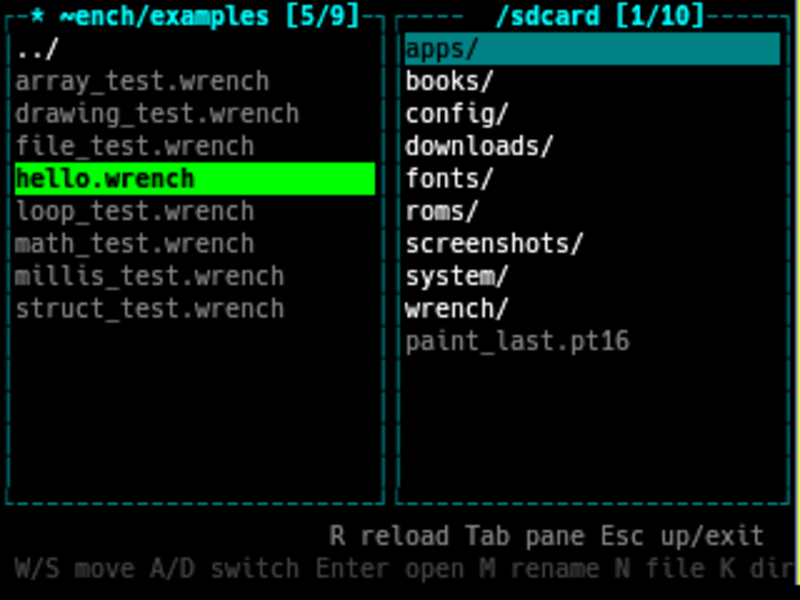
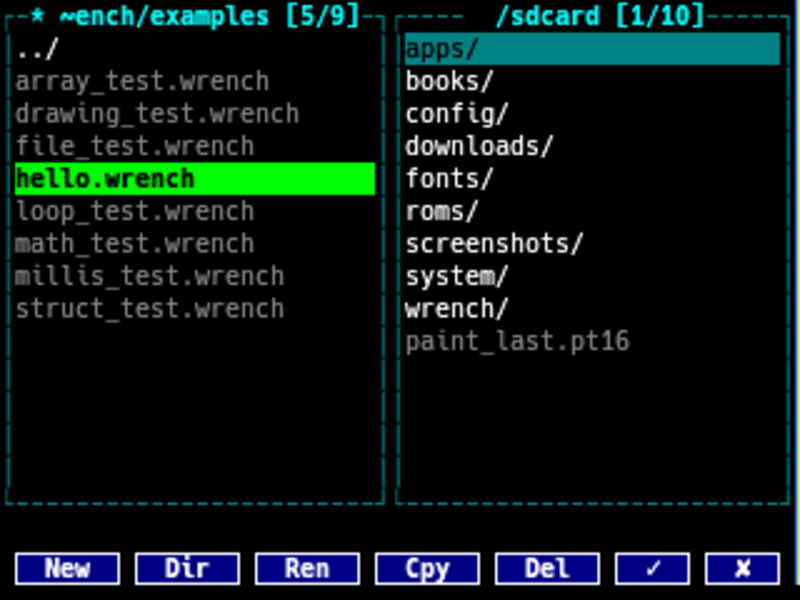
Always show buttons

Changed region(s): [[0.0, 0.0, 1.0, 0.99]]

diff --git a/apps/file_manager/app.c b/apps/file_manager/app.c
@@ -799,16 +799,9 @@ static void render(void) {
     draw_pane(0, 0, left_width, pane_height);
     draw_pane(1, left_width, right_width, pane_height);
 
-    // Show keyboard hints only if keyboard is available
-    bool has_keyboard = keyboard_is_available();
-    if (has_keyboard) {
-        ui_status_bar(rows - 2, state.status, "R reload Tab pane Esc up/exit");
-        ui_label(1, rows - 1, "W/S move A/D switch Enter open M rename N file K dir C copy X del", TEXT_COLOR_BRIGHT_BLACK);
-    } else {
-        ui_status_bar(rows - 2, state.status, "");
-        // Draw action toolbar
-        ui_toolbar_draw(state.toolbar);
-    }
+    // Show action toolbar and status
+    ui_status_bar(rows - 2, state.status, "");
+    ui_toolbar_draw(state.toolbar);
 
     text_mode_flush();
 }
@@ -973,10 +966,8 @@ void app_event(app_context_t *ctx, event_t *event) {
         int x_col = event->touch.x / cw;
         int y_col = event->touch.y / ch;
 
-        // Handle toolbar touches when no keyboard
-        if (!keyboard_is_available()) {
-            if (ui_toolbar_handle_touch(state.toolbar, event)) return;
-        }
+        // Handle toolbar touches
+        if (ui_toolbar_handle_touch(state.toolbar, event)) return;
 
         // Handle pane touches
         int cols = text_mode_get_cols();
